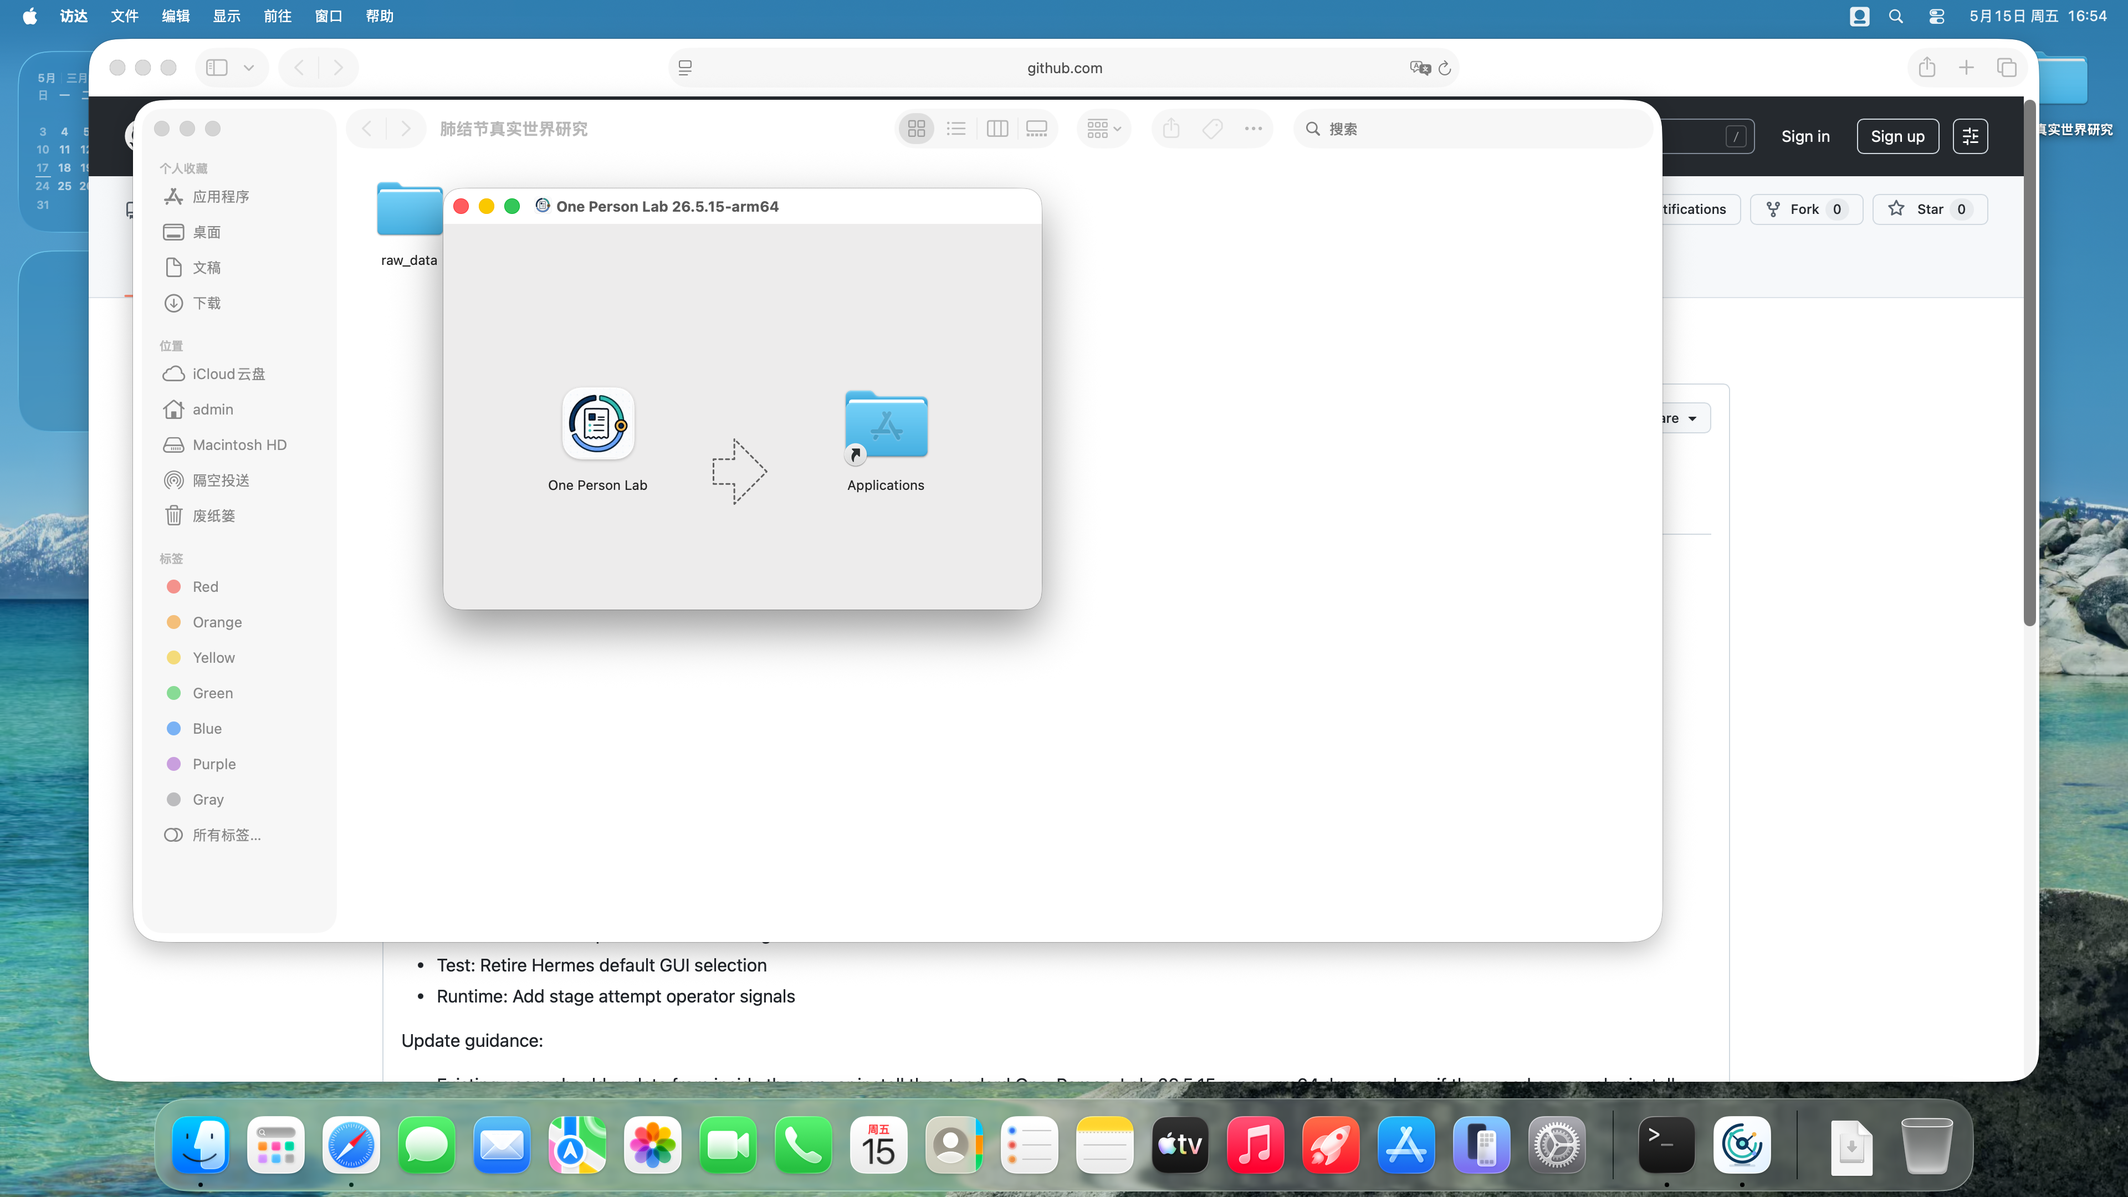
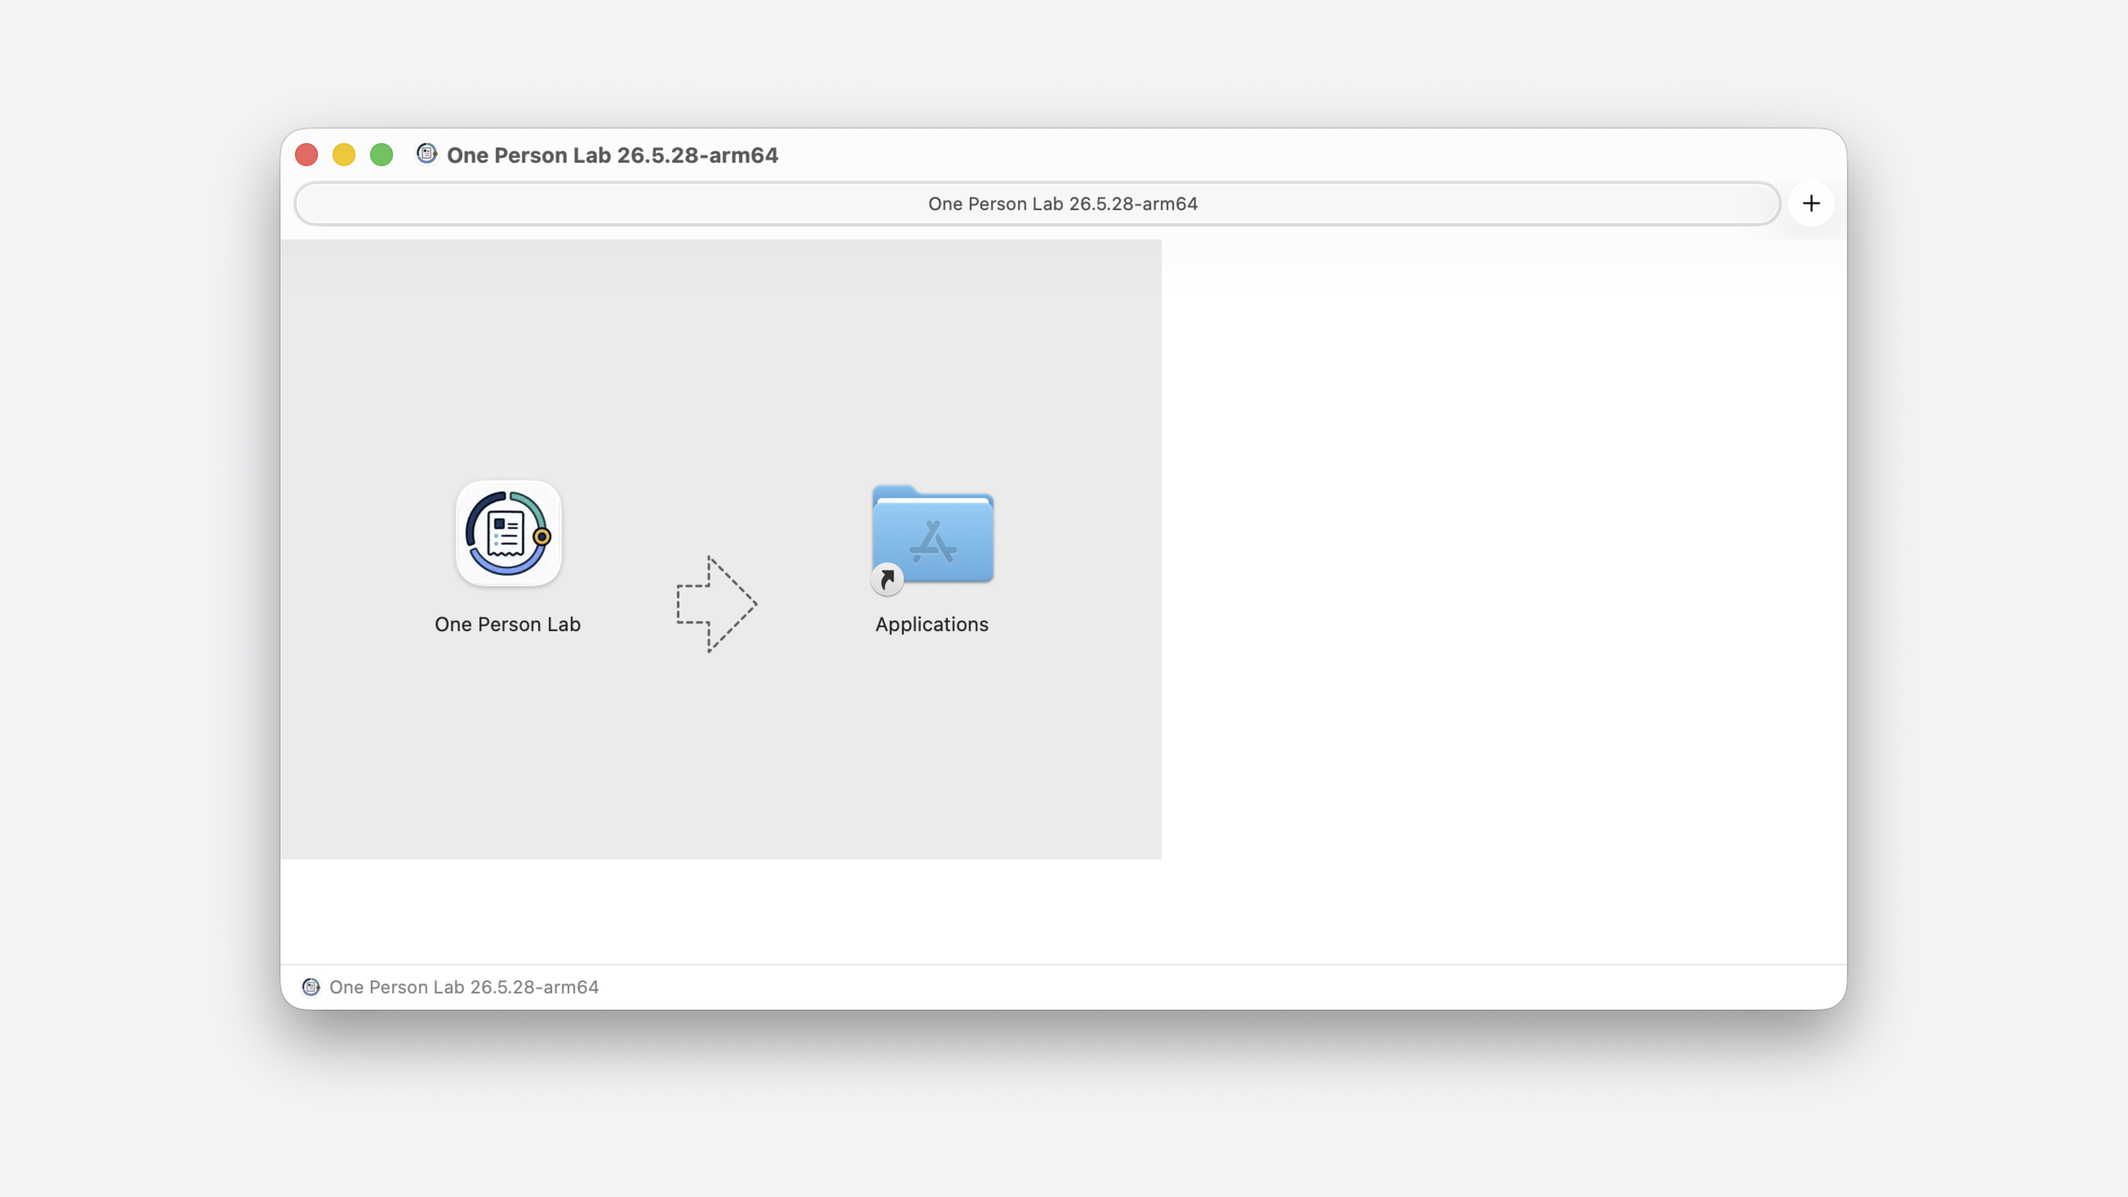
docs: refresh 26.5.28 user guide screenshots

diff --git a/scripts/build-user-guide-pdf.ts b/scripts/build-user-guide-pdf.ts
@@ -1,6 +1,7 @@
 #!/usr/bin/env node
 
 import fs from 'node:fs';
+import crypto from 'node:crypto';
 import path from 'node:path';
 import { spawnSync } from 'node:child_process';
 import { fileURLToPath } from 'node:url';
@@ -8,6 +9,7 @@ import { fileURLToPath } from 'node:url';
 const appRoot = path.resolve(path.dirname(fileURLToPath(import.meta.url)), '..');
 const guideDir = path.join(appRoot, 'docs', 'user-guides');
 const assetDir = path.join(guideDir, 'assets');
+const assetManifestPath = path.join(guideDir, 'macos-app-install-assets.json');
 const markdownPath = path.join(guideDir, 'macos-app-install.md');
 const pdfPath = path.join(guideDir, 'macos-app-install-detailed-guide.pdf');
 const verificationPath = path.join(guideDir, 'macos-app-install-verification.json');
@@ -15,7 +17,10 @@ const tempDir = path.join(appRoot, 'tmp', 'pdfs', 'macos-app-install');
 const tempMarkdownPath = path.join(tempDir, 'macos-app-install.pandoc.md');
 
 const latestReleaseUrl = 'https://github.com/gaofeng21cn/one-person-lab-app/releases/latest';
-const screenshotReleaseTag = process.env.OPL_APP_GUIDE_SCREENSHOT_RELEASE_TAG || 'v26.5.28';
+const assetManifest = JSON.parse(fs.readFileSync(assetManifestPath, 'utf8'));
+const screenshotReleaseTag = process.env.OPL_APP_GUIDE_SCREENSHOT_RELEASE_TAG || assetManifest.release_tag || 'v26.5.28';
+const expectedAssetWidth = Number(assetManifest.normalized_canvas_pixels?.width ?? 3840);
+const expectedAssetHeight = Number(assetManifest.normalized_canvas_pixels?.height ?? 2160);
 
 const steps = [
   {
@@ -36,7 +41,7 @@ const steps = [
   },
   {
     title: '3. 配置 Codex 权限',
-    body: '首次启动如果要求 API Key 或 Codex 权限，统一联系 gflabtoken 管理员开通。',
+    body: '首次启动如果 Codex API 配置还未完成，界面会把 Codex API Configuration 标为需要处理。统一联系 gflabtoken 管理员开通。',
     asset: '03-codex-config-needed.png',
     notes: ['管理员开通后，按管理员给出的方式完成配置。', '不要把密钥截图、转发或写入研究数据目录。'],
   },
@@ -57,10 +62,10 @@ const steps = [
     notes: ['MAS 通过 OPL 内的 Research Foundry / Med Auto Science 入口使用。', '用户不需要另行获取 MAS 分发资产。'],
   },
   {
-    title: '6. 准备研究数据目录',
-    body: '建议按一个病种或稳定研究主题新建本地 workspace，把原始或脱敏材料集中放入 raw_data/。',
+    title: '6. 确认工作目录和运行设置',
+    body: '在 Settings / Overview 中确认 Workspace Root、Codex CLI、Foundry Agents 和 Access 等入口。需要调整数据目录或运行设置时，从这里进入。',
     asset: '06-research-data-folder.png',
-    notes: ['新手首启阶段不需要手工建立 MAS 内部目录结构。', '患者数据需先脱敏，并遵守本机构数据管理要求。'],
+    notes: ['建议按一个病种或稳定研究主题建立本地 workspace，再把原始或脱敏材料集中放入工作目录。', '患者数据需先脱敏，并遵守本机构数据管理要求。'],
   },
   {
     title: '7. 发起首次科研任务',
@@ -102,6 +107,10 @@ function imageInfo(filePath: string) {
   return { width, height };
 }
 
+function fileSha256(filePath: string) {
+  return crypto.createHash('sha256').update(fs.readFileSync(filePath)).digest('hex');
+}
+
 function assertAssets() {
   const missing = steps
     .map((step) => step.asset)
@@ -111,15 +120,33 @@ function assertAssets() {
   }
 
   const dimensions: Record<string, { width: number; height: number }> = {};
+  const assets: Record<string, Record<string, unknown>> = {};
   for (const step of steps) {
     const filePath = path.join(assetDir, step.asset);
     const info = imageInfo(filePath);
-    dimensions[step.asset] = info;
-    if (info.width !== 3840 || info.height !== 2160) {
-      throw new Error(`Expected ${step.asset} to be 3840x2160, got ${info.width}x${info.height}`);
+    const expected = assetManifest.assets?.[step.asset];
+    if (!expected) {
+      throw new Error(`Missing guide screenshot provenance in ${path.relative(appRoot, assetManifestPath)}: ${step.asset}`);
     }
+    const sha256 = fileSha256(filePath);
+    dimensions[step.asset] = info;
+    if (info.width !== expectedAssetWidth || info.height !== expectedAssetHeight) {
+      throw new Error(`Expected ${step.asset} to be ${expectedAssetWidth}x${expectedAssetHeight}, got ${info.width}x${info.height}`);
+    }
+    if (sha256 !== expected.normalized_sha256) {
+      throw new Error(`Guide screenshot hash mismatch for ${step.asset}: expected ${expected.normalized_sha256}, got ${sha256}`);
+    }
+    assets[step.asset] = {
+      title: expected.title,
+      source_kind: expected.source_kind,
+      source: expected.source,
+      source_width: expected.source_width,
+      source_height: expected.source_height,
+      source_sha256: expected.source_sha256,
+      normalized_sha256: sha256,
+    };
   }
-  return dimensions;
+  return { dimensions, assets };
 }
 
 function buildMarkdown(options: { pandocPageBreaks?: boolean } = {}) {
@@ -174,8 +201,9 @@ function buildMarkdown(options: { pandocPageBreaks?: boolean } = {}) {
     '',
     '## 截图与验证来源',
     '',
-    '- 截图来自中文 macOS VM，逻辑桌面 1920x1080，Retina 输出 3840x2160。',
-    '- VM smoke 使用真实 DMG 安装到 `/Applications/One Person Lab.app`；标准版验证 GUID 输入页和 Settings 可用，Full 版额外验证 Codex 配置向导和 bundled runtime readiness。首启截图和 layout gate 还会验证新手首屏保持简化，技术细节默认折叠。',
+    '- 截图资产统一规范化为 3840x2160；来源包括 GitHub Release 页面、本机 26.5.28 DMG 安装窗口、26.5.28 App CDP 截图，以及 26.5.28 GitHub Actions clean VM artifact。',
+    '- VM smoke 使用真实 DMG 安装到 `/Applications/One Person Lab.app`；标准版验证 GUID 输入页和 Settings 可用，Full 版额外验证 Codex 配置向导和 bundled runtime readiness。首启截图和 layout gate 会验证新手首屏保持简化，技术细节默认折叠。',
+    '- 每张截图的来源、原始尺寸和 SHA256 记录在 `macos-app-install-assets.json` 与生成后的 verification JSON 中。',
     '- Release、DMG、首启日志和模块状态以 App repo contracts / workflow / VM smoke artifacts 为机器真相。',
     '',
   );
@@ -240,7 +268,7 @@ function pdfInfo() {
 }
 
 function main() {
-  const dimensions = assertAssets();
+  const { dimensions, assets } = assertAssets();
   buildPdf();
   const render = renderPdf();
   const info = pdfInfo();
@@ -261,16 +289,16 @@ function main() {
     pdf_layout: 'landscape',
     download_url: latestReleaseUrl,
     screenshot_release_tag: screenshotReleaseTag,
+    screenshot_asset_manifest: path.relative(appRoot, assetManifestPath),
     source_markdown: path.relative(appRoot, markdownPath),
     output_pdf: path.relative(appRoot, pdfPath),
     screenshot_source: {
-      vm_type: 'Tart',
-      macos_language: 'zh-Hans',
-      macos_locale: 'zh_CN',
-      logical_resolution: '1920x1080',
-      retina_pixels: '3840x2160',
-      smoke_summary: 'tmp/vm-smoke/opl-first-run-tart-zh1080-20260515-230311/tart-smoke-summary.json',
+      release_run_id: assetManifest.release_run?.id,
+      release_run_url: assetManifest.release_run?.url,
+      release_run_conclusion: assetManifest.release_run?.conclusion,
+      normalized_canvas_pixels: assetManifest.normalized_canvas_pixels,
     },
+    screenshot_assets: assets,
     screenshot_dimensions: dimensions,
     pdf_pages: pages,
     pdf_page_size_pts: {

diff --git a/scripts/build-user-guide-slides.ts b/scripts/build-user-guide-slides.ts
@@ -1,6 +1,7 @@
 #!/usr/bin/env node
 
 import fs from 'node:fs';
+import crypto from 'node:crypto';
 import path from 'node:path';
 import { spawnSync } from 'node:child_process';
 import { fileURLToPath } from 'node:url';
@@ -16,13 +17,17 @@ type Step = {
 const appRoot = path.resolve(path.dirname(fileURLToPath(import.meta.url)), '..');
 const guideDir = path.join(appRoot, 'docs', 'user-guides');
 const assetDir = path.join(guideDir, 'assets');
+const assetManifestPath = path.join(guideDir, 'macos-app-install-assets.json');
 const pptxPath = path.join(guideDir, 'macos-app-install-slides.pptx');
 const slidePdfPath = path.join(guideDir, 'macos-app-install-slides.pdf');
 const verificationPath = path.join(guideDir, 'macos-app-install-slides-verification.json');
 const tempDir = path.join(appRoot, 'tmp', 'pdfs', 'macos-app-install-slides');
 
 const latestReleaseUrl = 'https://github.com/gaofeng21cn/one-person-lab-app/releases/latest';
-const screenshotReleaseTag = process.env.OPL_APP_GUIDE_SCREENSHOT_RELEASE_TAG || 'v26.5.28';
+const assetManifest = JSON.parse(fs.readFileSync(assetManifestPath, 'utf8'));
+const screenshotReleaseTag = process.env.OPL_APP_GUIDE_SCREENSHOT_RELEASE_TAG || assetManifest.release_tag || 'v26.5.28';
+const expectedAssetWidth = Number(assetManifest.normalized_canvas_pixels?.width ?? 3840);
+const expectedAssetHeight = Number(assetManifest.normalized_canvas_pixels?.height ?? 2160);
 const titleFont = 'Arial';
 const cjkFont = 'PingFang SC';
 const bodyFont = 'Arial';
@@ -57,7 +62,7 @@ const steps: Step[] = [
   },
   {
     title: '3. 配置 Codex 权限',
-    subtitle: '首次启动如果要求 API Key 或 Codex 权限，联系 gflabtoken 管理员开通。',
+    subtitle: 'Codex API Configuration 如果显示 Unknown 或 Needs setup，联系 gflabtoken 管理员开通。',
     asset: '03-codex-config-needed.png',
     callouts: [
       '管理员开通后，按给出的方式完成配置。',
@@ -87,14 +92,14 @@ const steps: Step[] = [
     notes: '准备完成后，在主界面选择科研入口，进入 Research Foundry / Med Auto Science 工作流。MAS 通过 OPL 内的入口使用。',
   },
   {
-    title: '6. 准备研究数据目录',
-    subtitle: '按病种或稳定研究主题建立本地 workspace。',
+    title: '6. 确认工作目录和运行设置',
+    subtitle: '在 Settings / Overview 中确认 Workspace Root、Codex CLI、Foundry Agents 和 Access。',
     asset: '06-research-data-folder.png',
     callouts: [
-      '原始或脱敏材料集中放入 raw_data/。',
+      '数据目录和运行入口从 Settings 进入。',
       '患者数据需先脱敏，并遵守机构要求。',
     ],
-    notes: '建议按一个病种或稳定研究主题新建本地 workspace，把原始或脱敏材料集中放入 raw_data/。新手首启阶段不需要手工建立 MAS 内部目录结构。',
+    notes: '在 Settings / Overview 中确认 Workspace Root、Codex CLI、Foundry Agents 和 Access 等入口。建议按一个病种或稳定研究主题建立本地 workspace，把原始或脱敏材料集中放入工作目录。',
   },
   {
     title: '7. 发起首次科研任务',
@@ -142,18 +147,40 @@ function imageInfo(filePath: string) {
   return { width, height };
 }
 
+function fileSha256(filePath: string) {
+  return crypto.createHash('sha256').update(fs.readFileSync(filePath)).digest('hex');
+}
+
 function assertAssets() {
   const dimensions: Record<string, { width: number; height: number }> = {};
+  const assets: Record<string, Record<string, unknown>> = {};
   for (const step of steps) {
     const filePath = path.join(assetDir, step.asset);
     if (!fs.existsSync(filePath)) throw new Error(`Missing slide screenshot asset: ${step.asset}`);
     const info = imageInfo(filePath);
-    if (info.width !== 3840 || info.height !== 2160) {
-      throw new Error(`Expected ${step.asset} to be 3840x2160, got ${info.width}x${info.height}`);
+    const expected = assetManifest.assets?.[step.asset];
+    if (!expected) {
+      throw new Error(`Missing slide screenshot provenance in ${path.relative(appRoot, assetManifestPath)}: ${step.asset}`);
+    }
+    const sha256 = fileSha256(filePath);
+    if (info.width !== expectedAssetWidth || info.height !== expectedAssetHeight) {
+      throw new Error(`Expected ${step.asset} to be ${expectedAssetWidth}x${expectedAssetHeight}, got ${info.width}x${info.height}`);
+    }
+    if (sha256 !== expected.normalized_sha256) {
+      throw new Error(`Slide screenshot hash mismatch for ${step.asset}: expected ${expected.normalized_sha256}, got ${sha256}`);
     }
     dimensions[step.asset] = info;
+    assets[step.asset] = {
+      title: expected.title,
+      source_kind: expected.source_kind,
+      source: expected.source,
+      source_width: expected.source_width,
+      source_height: expected.source_height,
+      source_sha256: expected.source_sha256,
+      normalized_sha256: sha256,
+    };
   }
-  return dimensions;
+  return { dimensions, assets };
 }
 
 function addSlide(background = 'FFFFFF') {
@@ -363,10 +390,10 @@ function buildFinalSlide() {
     '模块未就绪：在 App 的环境管理中重新检查。',
   ];
   const right = [
-    '截图来自中文 macOS VM。',
-    '逻辑桌面 1920×1080，Retina 输出 3840×2160。',
+    '截图资产统一规范化为 3840×2160。',
+    '来源包括 Release 页面、本机 26.5.28 App、DMG 和 VM artifact。',
     '真实 DMG 安装到 /Applications/One Person Lab.app。',
-    '标准版验证 GUID 输入页，Full 版额外验证 Codex 向导。',
+    'verification JSON 记录每张图的来源和 SHA。',
   ];
 
   addShape(10, {
@@ -494,7 +521,7 @@ function pptxStats() {
 }
 
 function main() {
-  const dimensions = assertAssets();
+  const { dimensions, assets } = assertAssets();
   buildPptx();
   exportSlidePdf();
   const render = renderPdf();
@@ -514,6 +541,7 @@ function main() {
     status: 'macos_app_install_slides_ready',
     download_url: latestReleaseUrl,
     screenshot_release_tag: screenshotReleaseTag,
+    screenshot_asset_manifest: path.relative(appRoot, assetManifestPath),
     output_pptx: path.relative(appRoot, pptxPath),
     output_pdf: path.relative(appRoot, slidePdfPath),
     slide_layout: '16:9',
@@ -529,13 +557,12 @@ function main() {
       cover_title_pt: 38,
     },
     screenshot_source: {
-      vm_type: 'Tart',
-      macos_language: 'zh-Hans',
-      macos_locale: 'zh_CN',
-      logical_resolution: '1920x1080',
-      retina_pixels: '3840x2160',
-      smoke_summary: 'tmp/vm-smoke/opl-first-run-tart-zh1080-20260515-230311/tart-smoke-summary.json',
+      release_run_id: assetManifest.release_run?.id,
+      release_run_url: assetManifest.release_run?.url,
+      release_run_conclusion: assetManifest.release_run?.conclusion,
+      normalized_canvas_pixels: assetManifest.normalized_canvas_pixels,
     },
+    screenshot_assets: assets,
     screenshot_dimensions: dimensions,
     rendered_pages: render.pages.length,
     rendered_dir: path.relative(appRoot, render.renderDir),

diff --git a/docs/user-guides/macos-app-install.md b/docs/user-guides/macos-app-install.md
@@ -40,7 +40,7 @@ Machine boundary: Human-readable user guide. Release contracts, workflows, VM sm
 
 ## 3. 配置 Codex 权限
 
-首次启动如果要求 API Key 或 Codex 权限，统一联系 gflabtoken 管理员开通。
+首次启动如果 Codex API 配置还未完成，界面会把 Codex API Configuration 标为需要处理。统一联系 gflabtoken 管理员开通。
 
 ![3. 配置 Codex 权限](assets/03-codex-config-needed.png)
 
@@ -66,13 +66,13 @@ OPL 会先检查开始使用所需的关键项：工作目录、Codex CLI 和 Co
 - MAS 通过 OPL 内的 Research Foundry / Med Auto Science 入口使用。
 - 用户不需要另行获取 MAS 分发资产。
 
-## 6. 准备研究数据目录
+## 6. 确认工作目录和运行设置
 
-建议按一个病种或稳定研究主题新建本地 workspace，把原始或脱敏材料集中放入 raw_data/。
+在 Settings / Overview 中确认 Workspace Root、Codex CLI、Foundry Agents 和 Access 等入口。需要调整数据目录或运行设置时，从这里进入。
 
-![6. 准备研究数据目录](assets/06-research-data-folder.png)
+![6. 确认工作目录和运行设置](assets/06-research-data-folder.png)
 
-- 新手首启阶段不需要手工建立 MAS 内部目录结构。
+- 建议按一个病种或稳定研究主题建立本地 workspace，再把原始或脱敏材料集中放入工作目录。
 - 患者数据需先脱敏，并遵守本机构数据管理要求。
 
 ## 7. 发起首次科研任务
@@ -103,6 +103,7 @@ OPL 会先检查开始使用所需的关键项：工作目录、Codex CLI 和 Co
 
 ## 截图与验证来源
 
-- 截图来自中文 macOS VM，逻辑桌面 1920x1080，Retina 输出 3840x2160。
-- VM smoke 使用真实 DMG 安装到 `/Applications/One Person Lab.app`；标准版验证 GUID 输入页和 Settings 可用，Full 版额外验证 Codex 配置向导和 bundled runtime readiness。首启截图和 layout gate 还会验证新手首屏保持简化，技术细节默认折叠。
+- 截图资产统一规范化为 3840x2160；来源包括 GitHub Release 页面、本机 26.5.28 DMG 安装窗口、26.5.28 App CDP 截图，以及 26.5.28 GitHub Actions clean VM artifact。
+- VM smoke 使用真实 DMG 安装到 `/Applications/One Person Lab.app`；标准版验证 GUID 输入页和 Settings 可用，Full 版额外验证 Codex 配置向导和 bundled runtime readiness。首启截图和 layout gate 会验证新手首屏保持简化，技术细节默认折叠。
+- 每张截图的来源、原始尺寸和 SHA256 记录在 `macos-app-install-assets.json` 与生成后的 verification JSON 中。
 - Release、DMG、首启日志和模块状态以 App repo contracts / workflow / VM smoke artifacts 为机器真相。

diff --git a/docs/user-guides/README.md b/docs/user-guides/README.md
@@ -26,8 +26,10 @@ Editable and detailed companion artifacts:
 
 Update flow:
 
-1. Refresh screenshots under `docs/user-guides/assets/` from the Chinese macOS
-   VM first-run smoke.
+1. Refresh screenshots under `docs/user-guides/assets/`, then update
+   `macos-app-install-assets.json` with each screenshot source, source size,
+   source SHA256, and normalized SHA256. The guide generators fail if the PNGs
+   do not match this manifest.
 2. Update `macos-app-install.md` and the slide copy in
    `scripts/build-user-guide-slides.ts` when the user flow changes.
 3. Run `npm run docs:macos-guide` to refresh the primary slide PDF, editable
